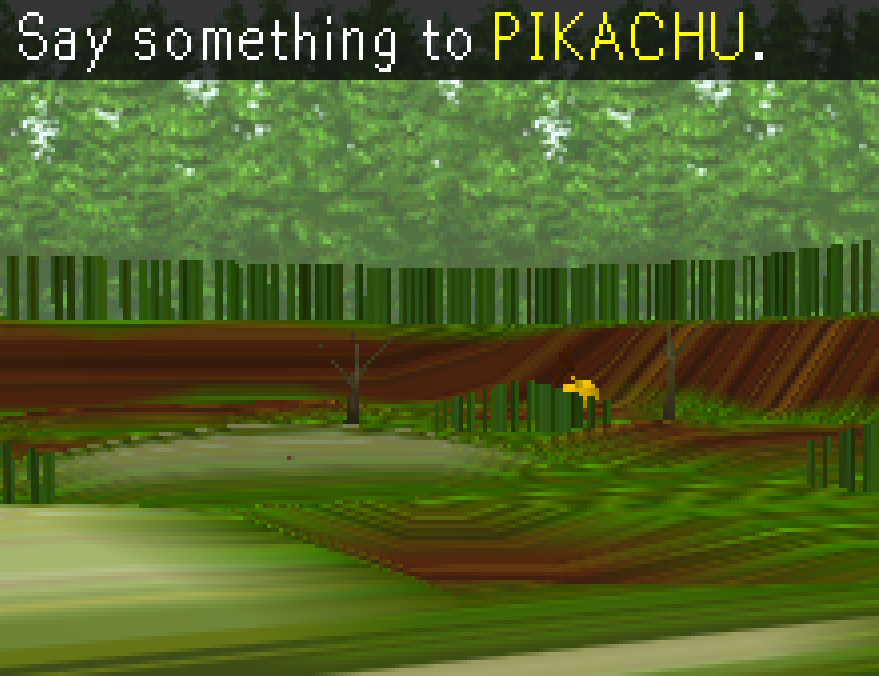
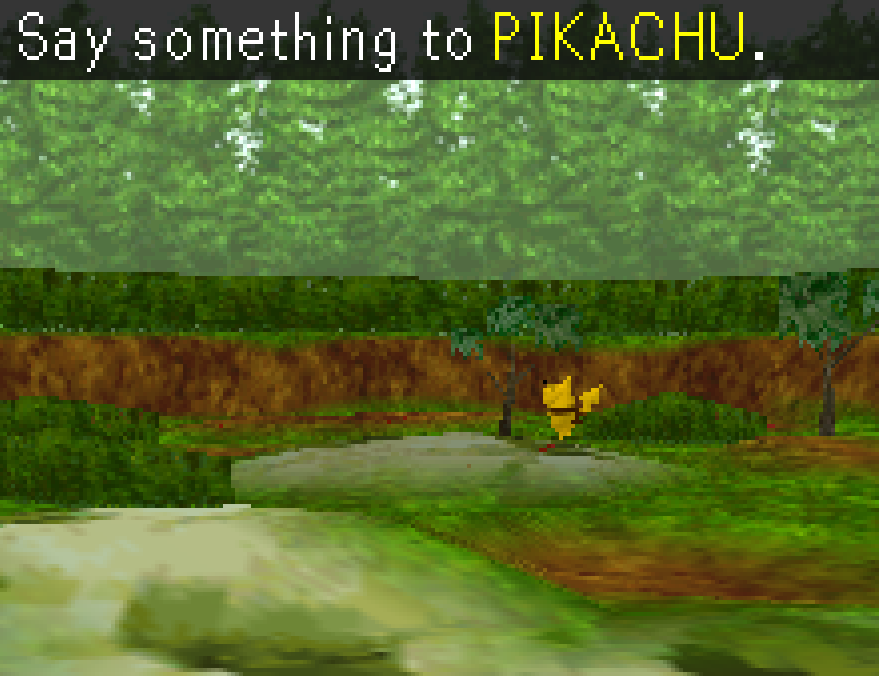
Fix smeared textures: F3DAM texture T scale lives at G_MW_FOG+0x10
The game's gSPTexture sends G_TEXTURE with S only, then writes T with a
moveword at G_MW_FOG offset 0x10. RT64 now applies that as the T scale
(patch renamed 0002-f3dam-texture-t-scale). Ground, trees and Pikachu's
face textures render correctly.

diff --git a/NOTES.md b/NOTES.md
@@ -16,12 +16,10 @@ ROM: `D:\AI\Hey You, Pikachu! (USA).z64`
   - Picker window: **Tab** in the game window opens it (`docs/vru_picker.png`). It lists the current dictionary; Enter/double-click says the word.
   - "Saying" a word holds Z (the talk button) until the game listens, then returns the slot with `distance` 0x100 and `voice_level` 1000.
   - Port 4 reports `CONT_TYPE_VOICE`. This needed a runtime patch: `patches/N64ModernRuntime/0001`, which enables `Device::VRU` and fixes `__osContGetInitData` overwriting the controller presence bitmask instead of OR-ing into it.
-- **3D rendering fixed** (`patches/rt64/0002`):
-  - F3DAM writes a second parameter at `G_MW_FOG + 0x10` (values `0x7FFF`/`0x4000`/`0`, many per frame). RT64 treated it as the fog factor (mul 0, offset 0x7FFF), which fogged every lit/fogged model to the white fog color.
-  - RT64 now honours only offset 0.
-  - Models in this game are vertex-lit, not textured.
-  - The meaning of `+0x10` is unknown. It's probably a fade/alpha scale (1.0/0.5/0); check whether faded objects need it.
-- Visual check pending: ground textures look streaky in the first forest scene. Compare against real hardware or an LLE emulator (ParaLLEl-RDP).
+- **3D rendering fixed** (`patches/rt64/0002-f3dam-texture-t-scale.patch`):
+  - F3DAM keeps the **texture T scale at `G_MW_FOG + 0x10`**. The game's gSPTexture emits `G_TEXTURE` with S only (T field 0), immediately followed by `DB080010 0000TTTT`.
+  - RT64 first treated that write as the fog factor, which made every lit model white. After that was fixed, it ignored the write and left T = 0, which smeared textures (streaky ground, faceless Pikachu).
+  - Now offset 0 sets fog and offset 0x10 sets `textureState.tc`. Verified: textured ground, trees, and Pikachu's face (`docs/title_fixed.png`, `docs/gameplay_say_something.png`).
 - Next:
   - microphone recognizer (Vosk/whisper.cpp, constrained to the current dictionary)
   - VRU word picker polish
